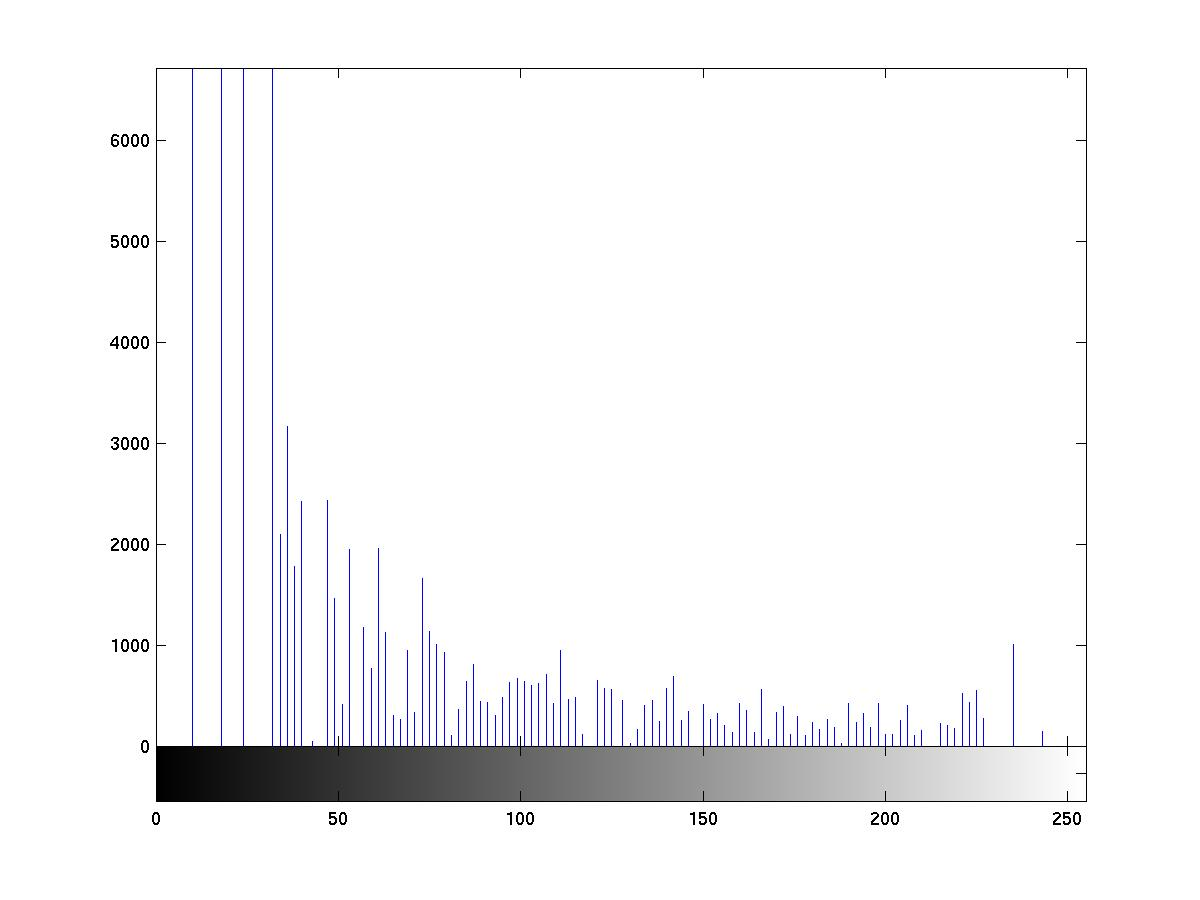
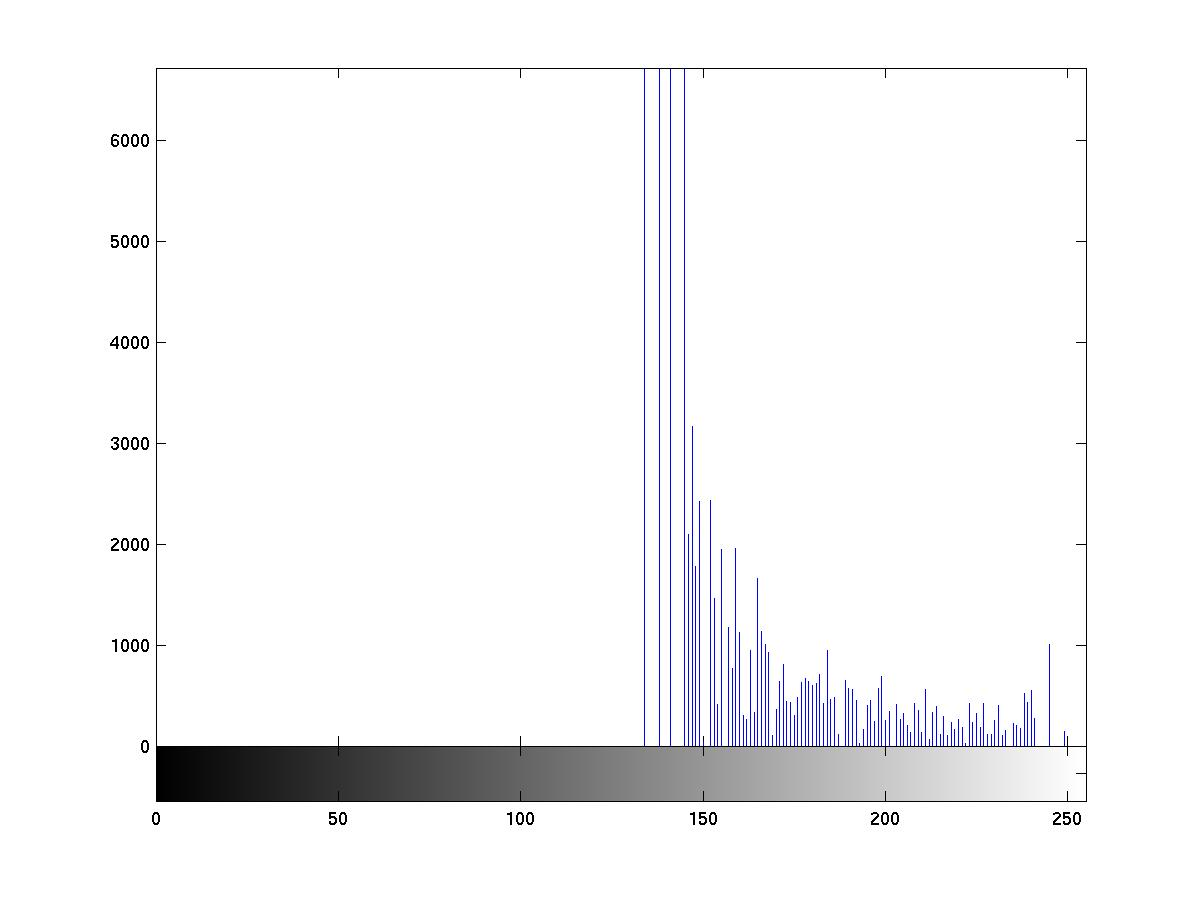
4b anfang

diff --git a/4/DBV_4b_Ex_Punkttransf_Histogramm_Gruppe_08.m b/4/DBV_4b_Ex_Punkttransf_Histogramm_Gruppe_08.m
@@ -40,10 +40,7 @@ saveas( fig2, 'Ergebnisse/g1_histo.jpg' );
 % Hellen Sie das Bild g1 deutlich auf.
 % Stellen Sie es wieder mit dem Histogramm dar.
 
-%Aufhellung: lineare dehnung mit maximalem grauwert auf 255.
-g2 = cast(g1, 'double')./cast(max(max(g1)), 'double').*255;
-g2 = round(g2);
-g2 = cast(g2, 'uint8');
+g2 = g1 + (255-max(max(g1)));
 
 figure(1); imshow( g2 );
 figure(2); imhist( g2 );
@@ -51,41 +48,41 @@ figure(2); imhist( g2 );
 imwrite( g2, 'Ergebnisse/g2-aufgehellt.jpg' );
 saveas( fig2, 'Ergebnisse/g2-aufgehellt_histo.jpg' );
 
-% Frage: Was bedeutet die Aufhellung f�r das Histogramm des 
+% Frage: Was bedeutet die Aufhellung für das Histogramm des 
 % aufgehellten Bildes?
-% A: ???
-%
+% A: Aufhellen bedeutet verschieben der Grauwerte im Histogramm.
 
 %--------------------------------------------------------------------------
 %% lineare Grauwertnormierung:
 % Heben Sie den Kontrast des Bildes !optimal! durch eine 
 % lineare Kennlinie an:
-???
 
-figure(1); imshow( g3 );
-figure(2); ???
+g3 = 255 / (max(max(g1)) - min(min(g1))) * (g1 - min(min(g1)));
+
+figure(5); imshow( g3 );
+figure(6); imhist( g3 );
 
 imwrite( g3, 'Ergebnisse/g3-normiert.jpg' );
 saveas( fig2, 'Ergebnisse/g3-normiert_histo.jpg' );
 
 %--------------------------------------------------------------------------
-%% Histogramm�quivalisierung bzw. -egalisierung:
-% F�hren Sie eine Histogramm�quivalisierung f�r das urspr�ngliche 
+%% Histogrammequivalisierung bzw. -egalisierung:
+% Führen Sie eine Histogrammequivalisierung für das ursprüngliche 
 % Bild g1 aus:
-g4 = ???
+g4 = histeq(g1);
 
-figure(1); imshow( g4 );
-figure(2); ???
+figure(7); imshow( g4 );
+figure(8); imhist( g4 );
 
 imwrite( g4, 'Ergebnisse/g4-egalisiert.jpg' );
 saveas( fig2, 'Ergebnisse/g4-egalisiert_histo.jpg' );
 
 % Fragen: 
-% 1) Was f�llt Ihnen auf?
-% A: ???
+% 1) Was fällt Ihnen auf?
+% A: Es rauscht voll. ???
 % 
 %
-% 2) Nennen Sie Gr�nde f�r diese Auff�lligkeiten
+% 2) Nennen Sie Gründe für diese Auffälligkeiten
 % A: ???
 % 
 
